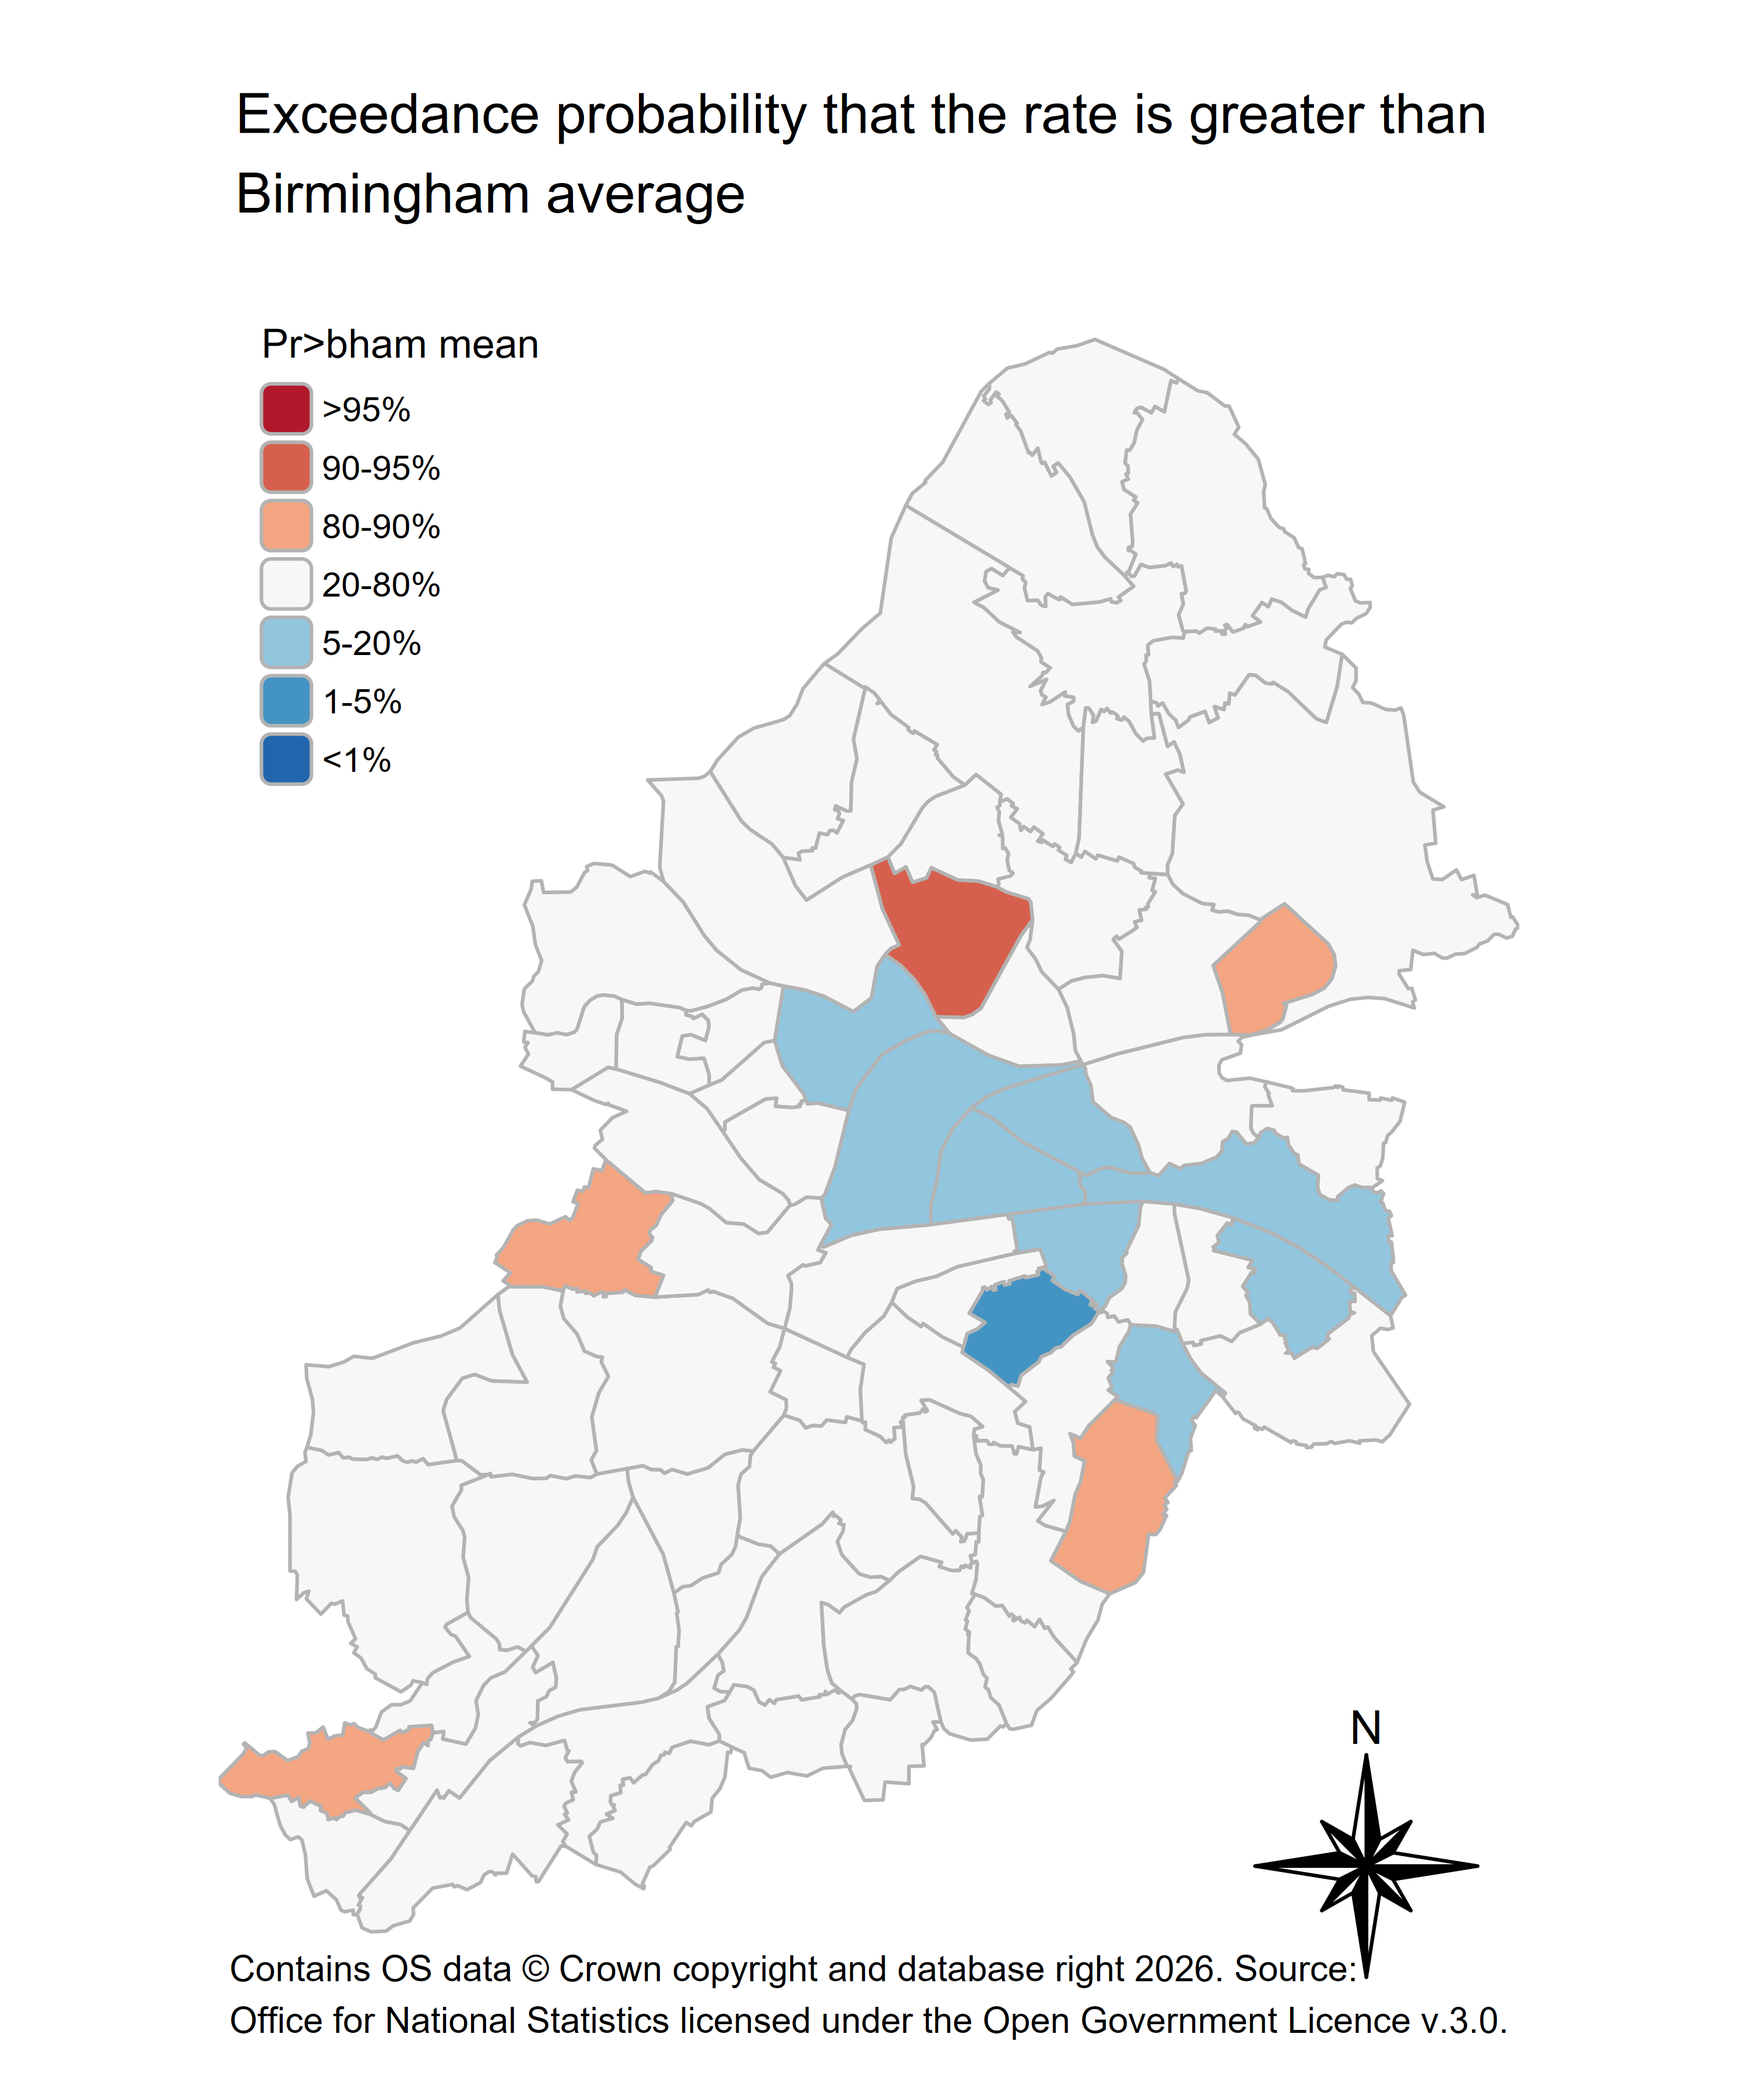
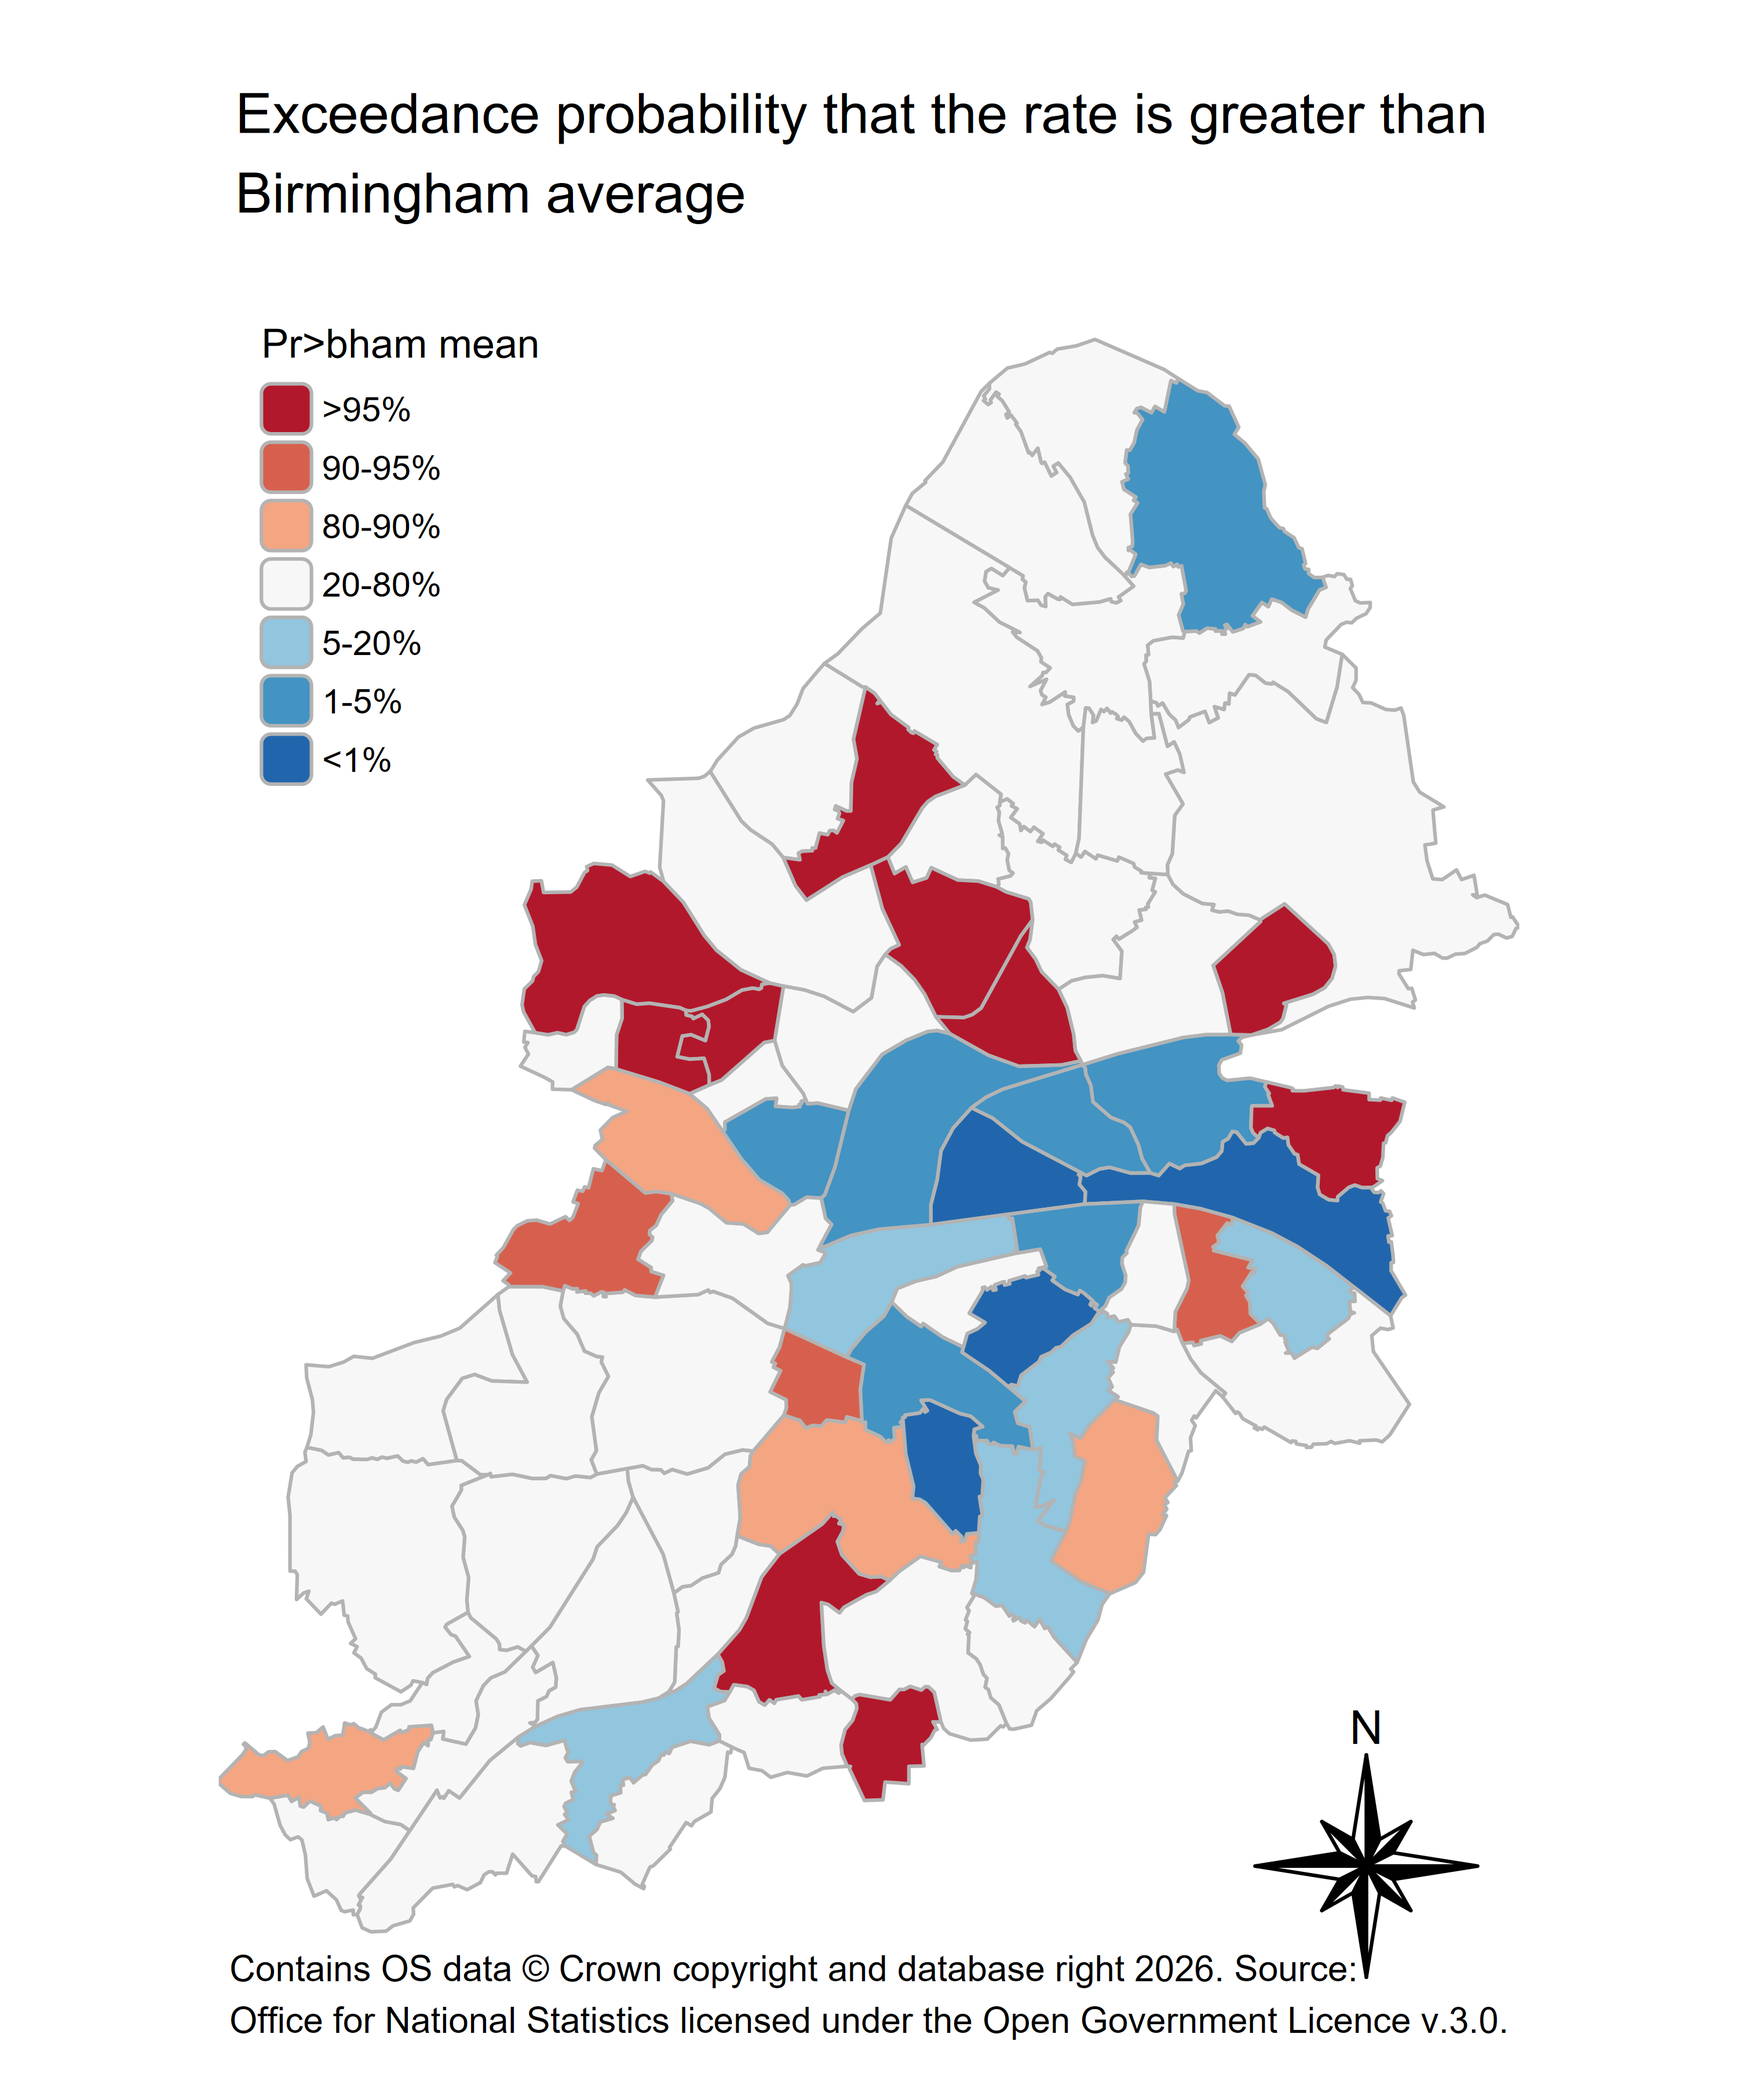
update to allow pooled rate

Changed region(s): [[0.279, 0.3422, 0.806, 0.9022], [0.651, 0.1867, 0.775, 0.3111]]

diff --git a/README.md b/README.md
@@ -47,54 +47,61 @@ devtools::install_github("BCC-PHM/bccsmooth")
 
 **1. Turn on Net motion (Mobility client)!**
 
-**2. Extract the deaths and build the model inputs.** This connects to the `PH_Deaths` warehouse, so it needs access to the council network. `diagnostic_code` takes ICD-10 patterns, `age` takes a single cut such as `"<75"` or two bounds such as `c("15", "64")`, and `geo_level` is `"lsoa21"` or `"ward"`. If no `geo_level` is supplied, the default extraction will be at LSOA level. The default `financial_year` takes `2025/2026`, to use other financial_year please supply with `YYYY/YYYY` format.
+**2. Extract the deaths and build the model inputs.** This connects to the `PH_Deaths` warehouse, so it needs access to the council network. `diagnostic_code` takes ICD-10 patterns, `age` takes a single cut such as `"<75"` or two bounds such as `c("15", "64")`, and `geo_level` is `"lsoa21"` or `"ward"`. If no `geo_level` is supplied, the default extraction will be at LSOA level. The default `financial_year` takes `2025/2026`, to use other financial_year please supply with `YYYY/YYYY` format. Multiple financial years can also be specified and the final result will be a N-year pooled rate. 
 
 ``` r
-r = get_ph_deaths(financial_year  = "2025/2026", age = "<75", diagnostic_code = c("I[0-9]%"))
+wardr = get_ph_deaths(age = "<75", diagnostic_code = c("I[0-9]%"),
+                  financial_year = c("2025/2026", "2024/2025", "2023/2024"),
+                  geo_level = "ward")
+                  
 ```
 
-**3. Fit the BYM2 model and summarise.** `post_sample` is the number of posterior draws used to build the credible intervals. Use a small number while exploring and at least 1000 as standard requirement for reporting. The smoothing process for LSOA level will take around 10-15 minutes while ward level will take around 1-2 minutes.
+**3. Fit the BYM2 model and summarise.** `post_sample` is the number of posterior draws used to build the credible intervals. Use at least 1000 as standard requirement for reporting. The smoothing process for LSOA level will take around 10-15 minutes while ward level will take around 1-2 minutes.
 
 ``` r
-res = smooth_ph_deaths(r, post_sample = 100)
+res = smooth_ph_deaths(wardr , post_sample = 1000)
+
 ```
 
-**4. Map the smoothed rate.** Areas failing the reliability threshold are drawn as "Suppressed". The default reliability uses 95% CrI when no credible_interval is specified. You can specify a less strict threshold — `"90"` or `"80"` — which lets more areas through:
+**4. Map the smoothed rate.** Areas failing the reliability threshold are drawn as "Suppressed". The default reliability uses 95% CrI when no credible_interval is specified. You can specify a less strict threshold — `"90"` or `"80"` — which lets more areas through. **If a lot of the areas are still suppressed when using LSOA level, you might want to try pooling multiple years or using ward level smoothing**.
 
 ``` r
-map_plot_lsoa = plot_smoothed_map(res,
-                  credible_interval = "90",
-                  credible_interval_map = FALSE,
-                  palette = "brewer.reds",
-                  fill_title = "Smoothed Under 75 mortality rate from \ncardiovascular disease in 25/26 Financial Year")
+map_plot_ward = plot_smoothed_map(res,
+                                  credible_interval = "95",
+                                  credible_interval_map = FALSE,
+                                  palette = "brewer.reds",
+                                  fill_title = "Smoothed Under 75 mortality rate from \ncardiovascular disease in 25/26 Financial Year")
 ```
 
 If `credible_interval_map = TRUE` is being specified, a list of three maps is returned. Use `$` to extract the one you want. Please use standard `tmap_save` for saving the maps and the following specifications are recommended.
 
 ``` r
 library(tmap)
-tmap_save(map_plot_lsoa,
-          "figs/test_map_plot_lsoa.png",
+tmap_save(map_plot_ward,
+          "figs/test_map_plot_ward.png",
           height = 6,
           width = 5,
           dpi=600)
 ```
 
-![](figs/test_map_plot_lsoa.png)
+![](figs/test_map_plot_ward.png)
 
 **5. Map the exceedance probability** — the probability that each area's rate is above the Birmingham average.
 
 ``` r
-test_exceedance_plot = plot_exceedance_prob(res)
 
-tmap_save(test_exceedance_plot,
-          "figs/test_exceedance_plot_lsoa.png",
+test_exceedance_prob_map_plot = plot_exceedance_prob(res)
+
+
+tmap_save(test_exceedance_prob_map_plot,
+          "figs/test_exceedance_prob_map_plot.png",
           height = 6,
           width = 5,
           dpi=600)
+
 ```
 
-![](figs/test_exceedance_plot_lsoa.png)
+![](figs/test_exceedance_prob_map_plot.png)
 
 ### Reference
 
